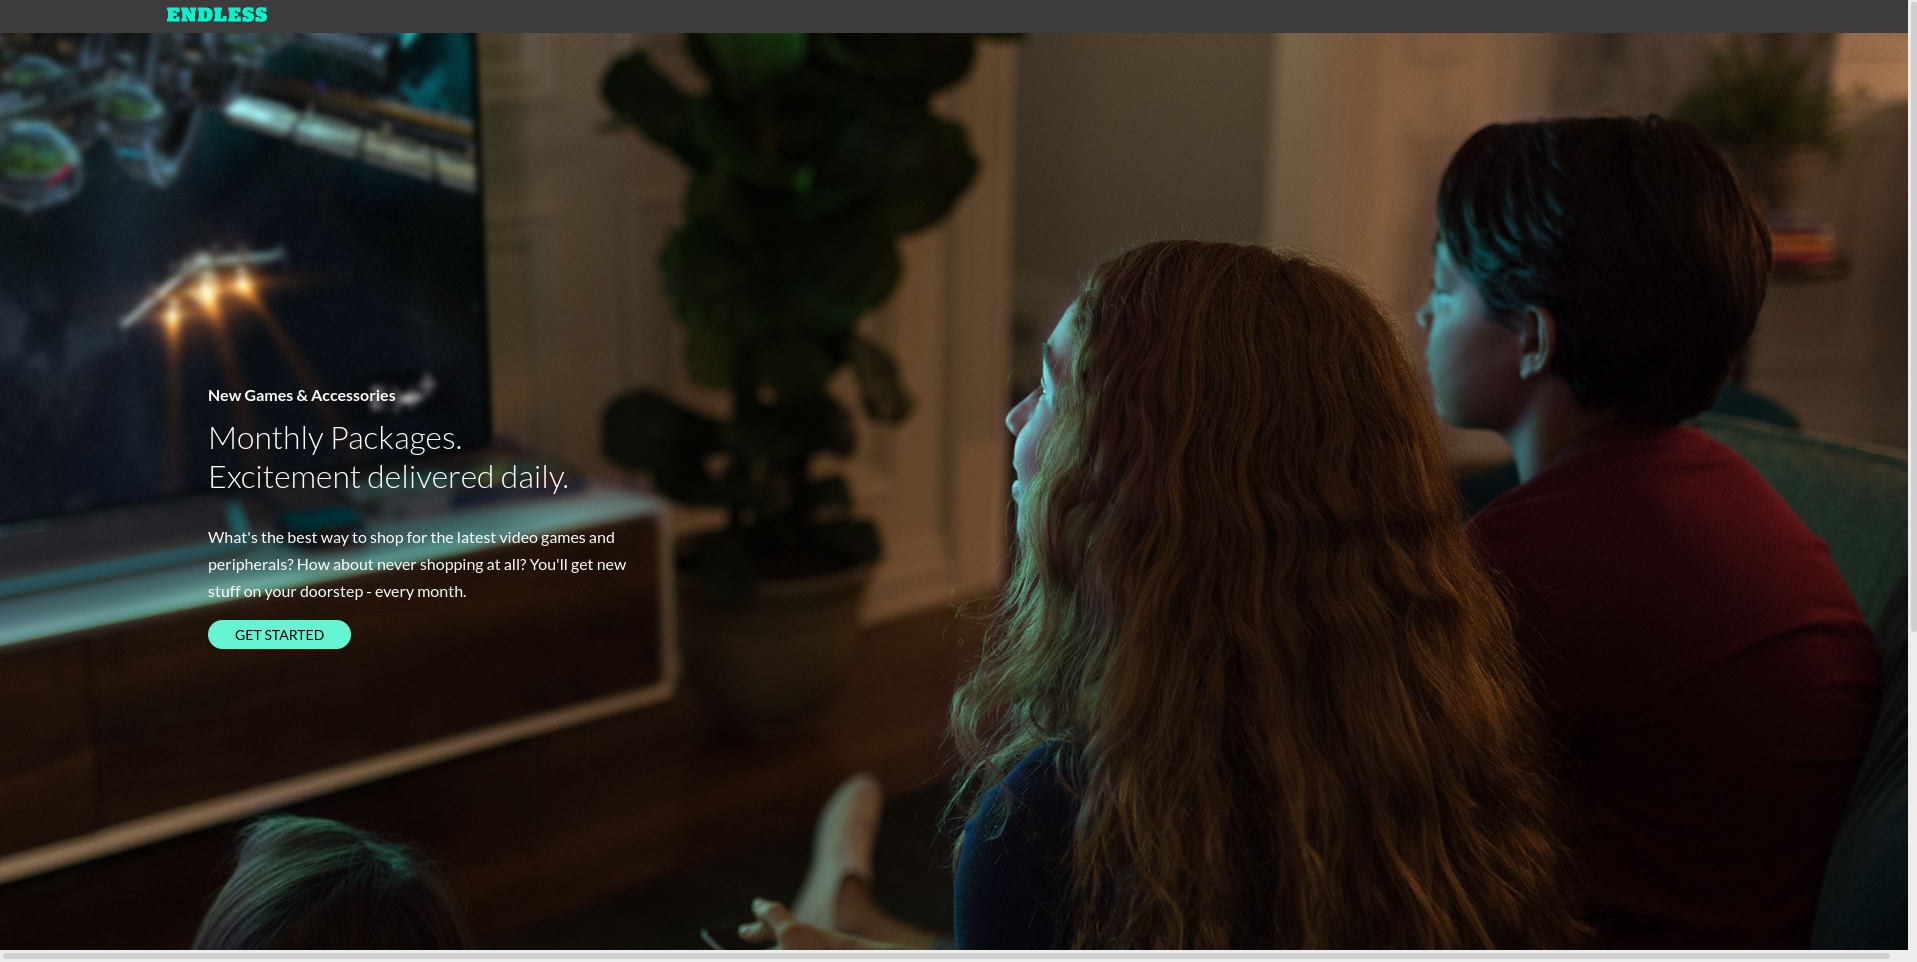
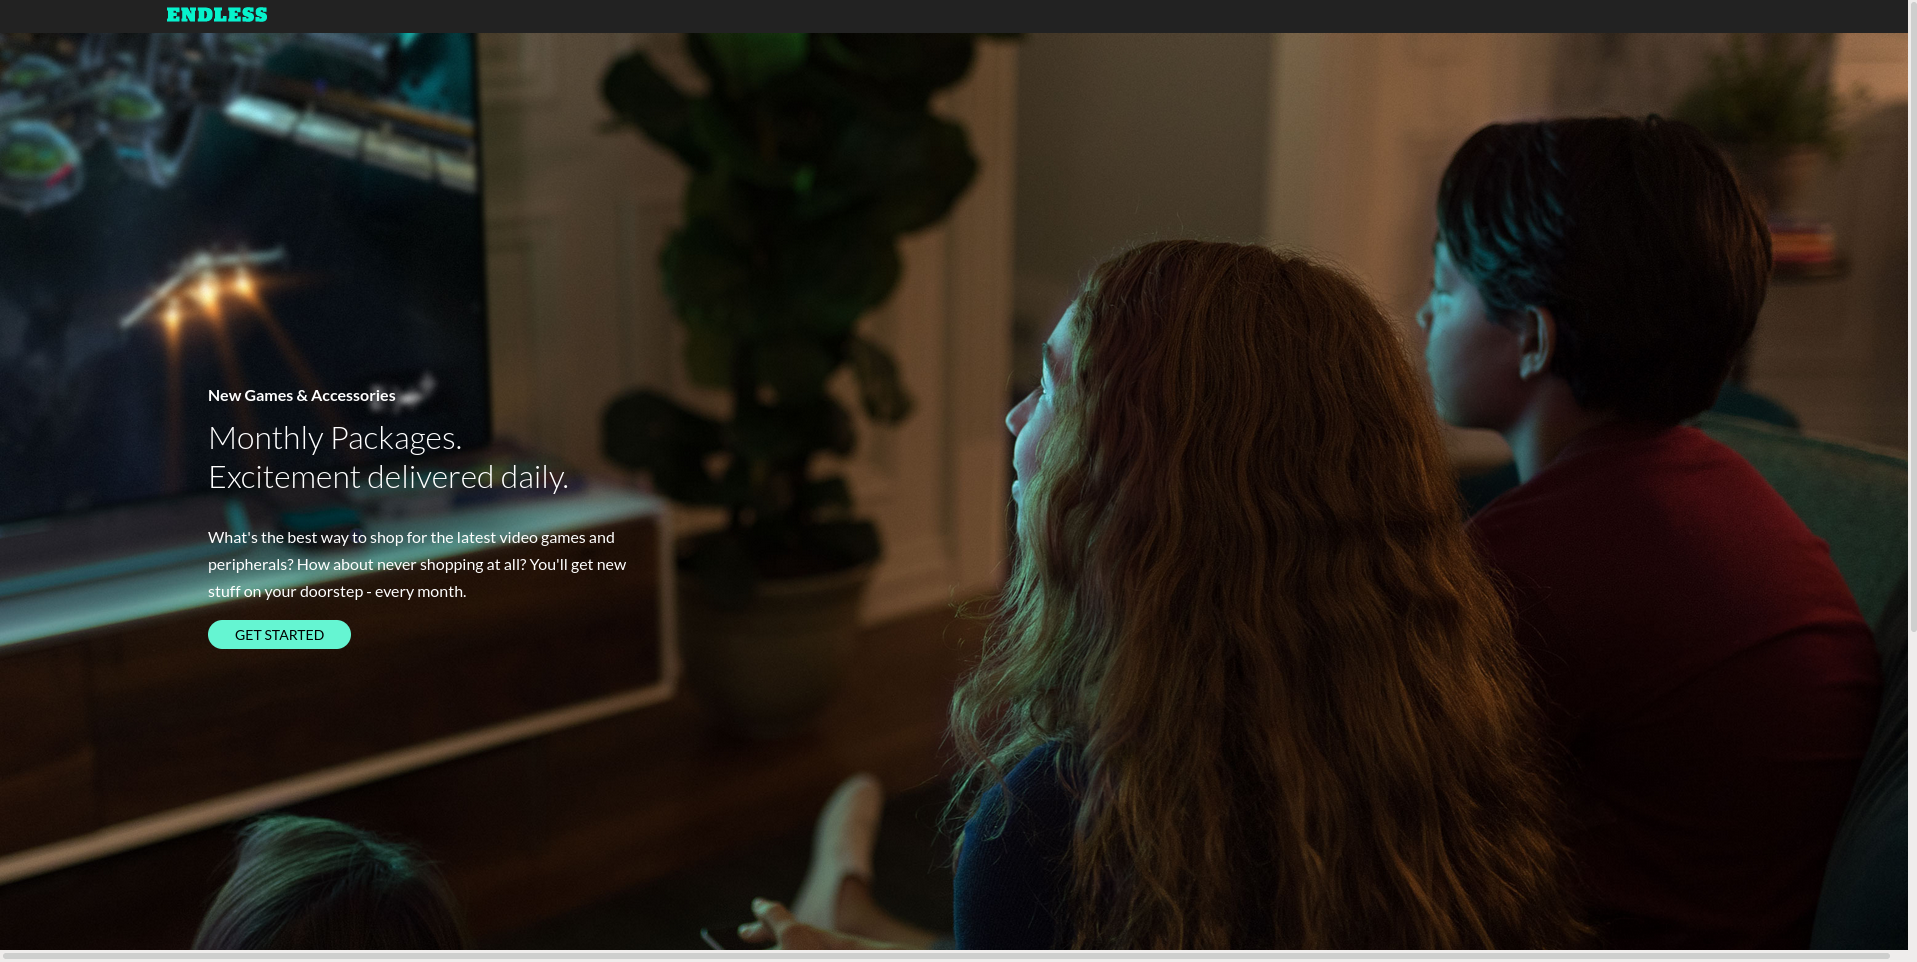
tweaked color on header to better match comp image

Changed region(s): [[0.0, 0.0, 1.0, 0.0312]]

diff --git a/src/components/Steps.jsx b/src/components/Steps.jsx
@@ -1,33 +1,12 @@
 import React, { useEffect, useState } from "react";
 import { getSteps } from "../utils/API";
 
+import { sortStepNumber, mapStepsByDate } from "../utils/stepSorter.js";
+
 const Steps = () => {
   const [steps, setSteps] = useState([]);
   //useEffect hook is called every time the page is re-rendered, and in this case it is told to only render once so we don't generate an infinite loop
   useEffect(() => {
-    //This function maps over the steps and sorts them by stepNumber
-    const sortStepNumber = (steps) => {
-      return steps.sort((a, b) =>
-        parseInt(a.stepNumber > b.stepNumber ? 1 : -1)
-      );
-    };
-    //this section maps over the steps that are passed to it and returns an array of objects with the stepNumber and most recent versionContent
-    const mapStepsByDate = (steps) => {
-      const mappedByDate = steps.map((step) => ({
-        stepNumber: step.stepNumber,
-        stepInfo: step.versionContent.reduce((a, b) =>
-          a.effectiveDate > b.effectiveDate ? a : b
-        ),
-      }));
-      //This section removes the extra data and puts all the needed data into one object that is saved as newSteps
-      const newSteps = mappedByDate.map((step) => ({
-        stepNumber: step.stepNumber,
-        title: step.stepInfo.title,
-        body: step.stepInfo.body,
-      }));
-
-      return newSteps;
-    };
     //This section calls the getSteps() function, and then executes a function that uses the above defined functions to set steps in State
     getSteps().then((steps) => {
       const sortedSteps = sortStepNumber(steps);
@@ -39,7 +18,7 @@ const Steps = () => {
   return (
     <div className="steps">
       <h3 className="stepHeader">How it Works</h3>
-      <div className="stepWrapper" id="stepWrapper">
+      <section className="stepWrapper" id="stepWrapper">
         {steps &&
           steps.map((step) => (
             <div className="stepContainer">
@@ -48,7 +27,7 @@ const Steps = () => {
               <p className="stepText">{step.body}</p>
             </div>
           ))}
-      </div>
+      </section>
     </div>
   );
 };

diff --git a/src/utils/stepSorter.js b/src/utils/stepSorter.js
@@ -1,0 +1,21 @@
+//This function maps over the steps and sorts them by stepNumber. It works via the .sort method. It goes through the array comparing the numbers one against the other and returns either 1, meaning the step a comes before step b, or it returns -1 and that means b should come before step a.
+export const sortStepNumber = (steps) => {
+  return steps.sort((a, b) => parseInt(a.stepNumber > b.stepNumber ? 1 : -1));
+};
+//this section maps over the steps that are passed to it and returns an array of objects with the stepNumber and most recent versionContent
+export const mapStepsByDate = (steps) => {
+  const mappedByDate = steps.map((step) => ({
+    stepNumber: step.stepNumber,
+    stepInfo: step.versionContent.reduce((a, b) =>
+      a.effectiveDate > b.effectiveDate ? a : b
+    ),
+  }));
+  //This section removes the extra data and puts all the needed data into one object that is saved as newSteps
+  const newSteps = mappedByDate.map((step) => ({
+    stepNumber: step.stepNumber,
+    title: step.stepInfo.title,
+    body: step.stepInfo.body,
+  }));
+
+  return newSteps;
+};

diff --git a/src/components/HeroText.jsx b/src/components/HeroText.jsx
@@ -8,7 +8,7 @@ import "animate.css/animate.min.css";
 
 const HeroText = () => {
   return (
-    <div className="heroText">
+    <main className="heroText">
       <ScrollAnimation
         animateIn="fadeIn"
         animateOnce={true}
@@ -20,16 +20,16 @@ const HeroText = () => {
           <span>Monthly Packages.</span>
           <span>Excitement delivered daily.</span>
         </h1>
-        <div className="paragraph">
+        <section className="paragraph">
           <p>
             What's the best way to shop for the latest video games and
             peripherals? How about never shopping at all? You'll get new stuff
             on your doorstep - every month.
           </p>
-        </div>
+        </section>
         <Button />
       </ScrollAnimation>
-    </div>
+    </main>
   );
 };
 

diff --git a/src/components/Navbar.jsx b/src/components/Navbar.jsx
@@ -5,7 +5,7 @@ import logo from "../images/logo-endless.svg";
 const Navbar = () => {
   return (
     <nav className="nav">
-      <img src={logo} alt="endless-logo" className="logo" />
+      <img src={logo} alt="endless logo" className="logo" />
     </nav>
   );
 };

diff --git a/src/index.css b/src/index.css
@@ -10,7 +10,7 @@
 }
 
 .nav {
-  background-color: rgb(61, 59, 59);
+  background-color: rgb(34, 34, 34);
   padding: 7px;
 }
 
